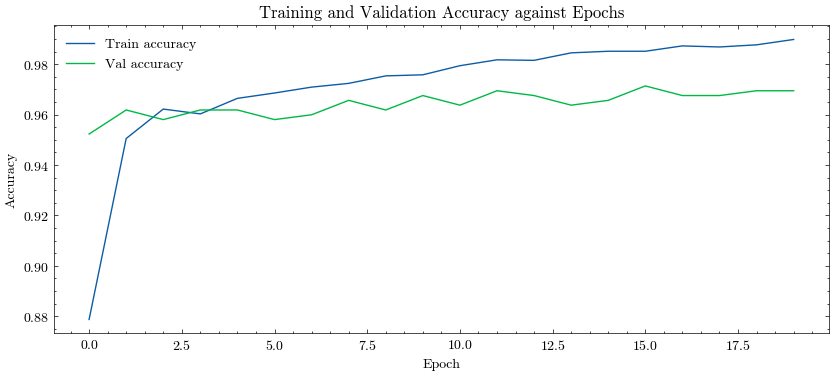
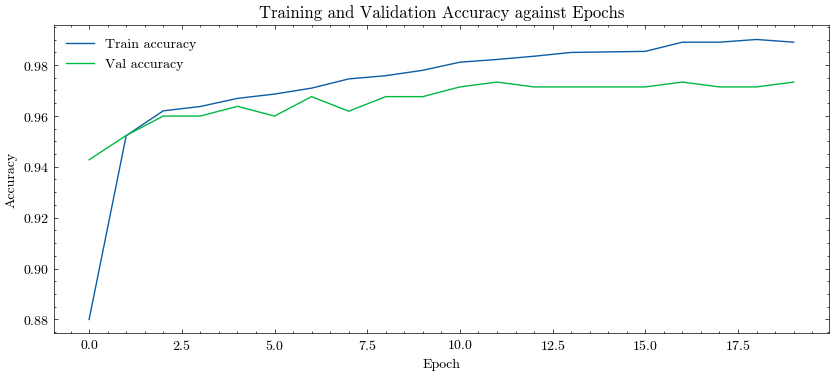
updates to CNN2 and CNN3

diff --git a/B/CNN3.py b/B/CNN3.py
@@ -201,26 +201,10 @@ for epoch in range(epochs):
     print('Val Loss: {:.4f} Acc: {:.4f}'.format(epoch_loss, epoch_acc))
 
 #plotting training and validation loss
-# plt.figure(figsize=(10, 4))
-# plt.plot(train_loss, label='Train loss')
-# plt.plot(val_loss, label='Val loss')
-# plt.xlabel('Epoch')
-# plt.ylabel('Loss')
-# plt.title('Training and Validation Loss against Epochs')
-# plt.legend()
-# plt.savefig(os.path.join(result_path, 'training_and_val_loss.png'))
 gen_loss_plot(train_loss, val_loss, result_path)
 
 
 #plotting training and validation accuracy
-# plt.figure(figsize=(10, 4))
-# plt.plot(train_acc, label='Train acc')
-# plt.plot(val_acc, label='Val acc')
-# plt.xlabel('Epoch')
-# plt.ylabel('Accuracy')
-# plt.title('Training and Validation Accuracy against Epochs')
-# plt.legend()
-# plt.savefig(os.path.join(result_path, 'training_and_val_acc.png'))
 gen_acc_plot(train_acc, val_acc, result_path)
 
 #Evaluating model
@@ -253,17 +237,6 @@ plt.legend(['Correct', 'Incorrect'])
 plt.savefig(os.path.join(result_path, 'predictions_as_function_of_class_label.png'))
 
 #confusion matrix
-# ConfusionMatrixDisplay.from_predictions(
-#     y_true = test_labels,
-#     y_pred = preds,
-#     display_labels = ['Adipose', 'Background', 'Debris', 'Lymphocytes', 'Mucus', 'Smooth Muscle', 'Mucosa', 'Stroma', 'Tumor'],
-#     cmap = plt.cm.Blues,
-#     xticks_rotation='vertical'
-# )
-# plt.title('CNN3 Confusion Matrix')
-# plt.xlabel('Predicted Label')
-# plt.ylabel('True Label')
-# plt.savefig(os.path.join(result_path, 'confusion_matrix.png'))
 gen_confusion_matrix(test_labels, preds, result_path, data_flag)
 
 #Extracting true positive, true negative, false positive and false negative values for sensitivity and specificity
@@ -284,12 +257,4 @@ print('Sensitivity: {}%'.format(sensitivity))
 print('Specificity: {}%'.format(specificity))
 
 #Saving results to JSON
-# results = {
-#     'Accuracy': accuracy_score(test_labels, preds) * 100,
-#     'Sensitivity': sensitivity,
-#     'Specificity': specificity
-# }
-# with open(os.path.join(result_path, 'results.json'), 'w') as fp:
-#     json.dump(results, fp)
-#Generating Json file
 gen_json(accuracy, sensitivity, specificity, result_path)
